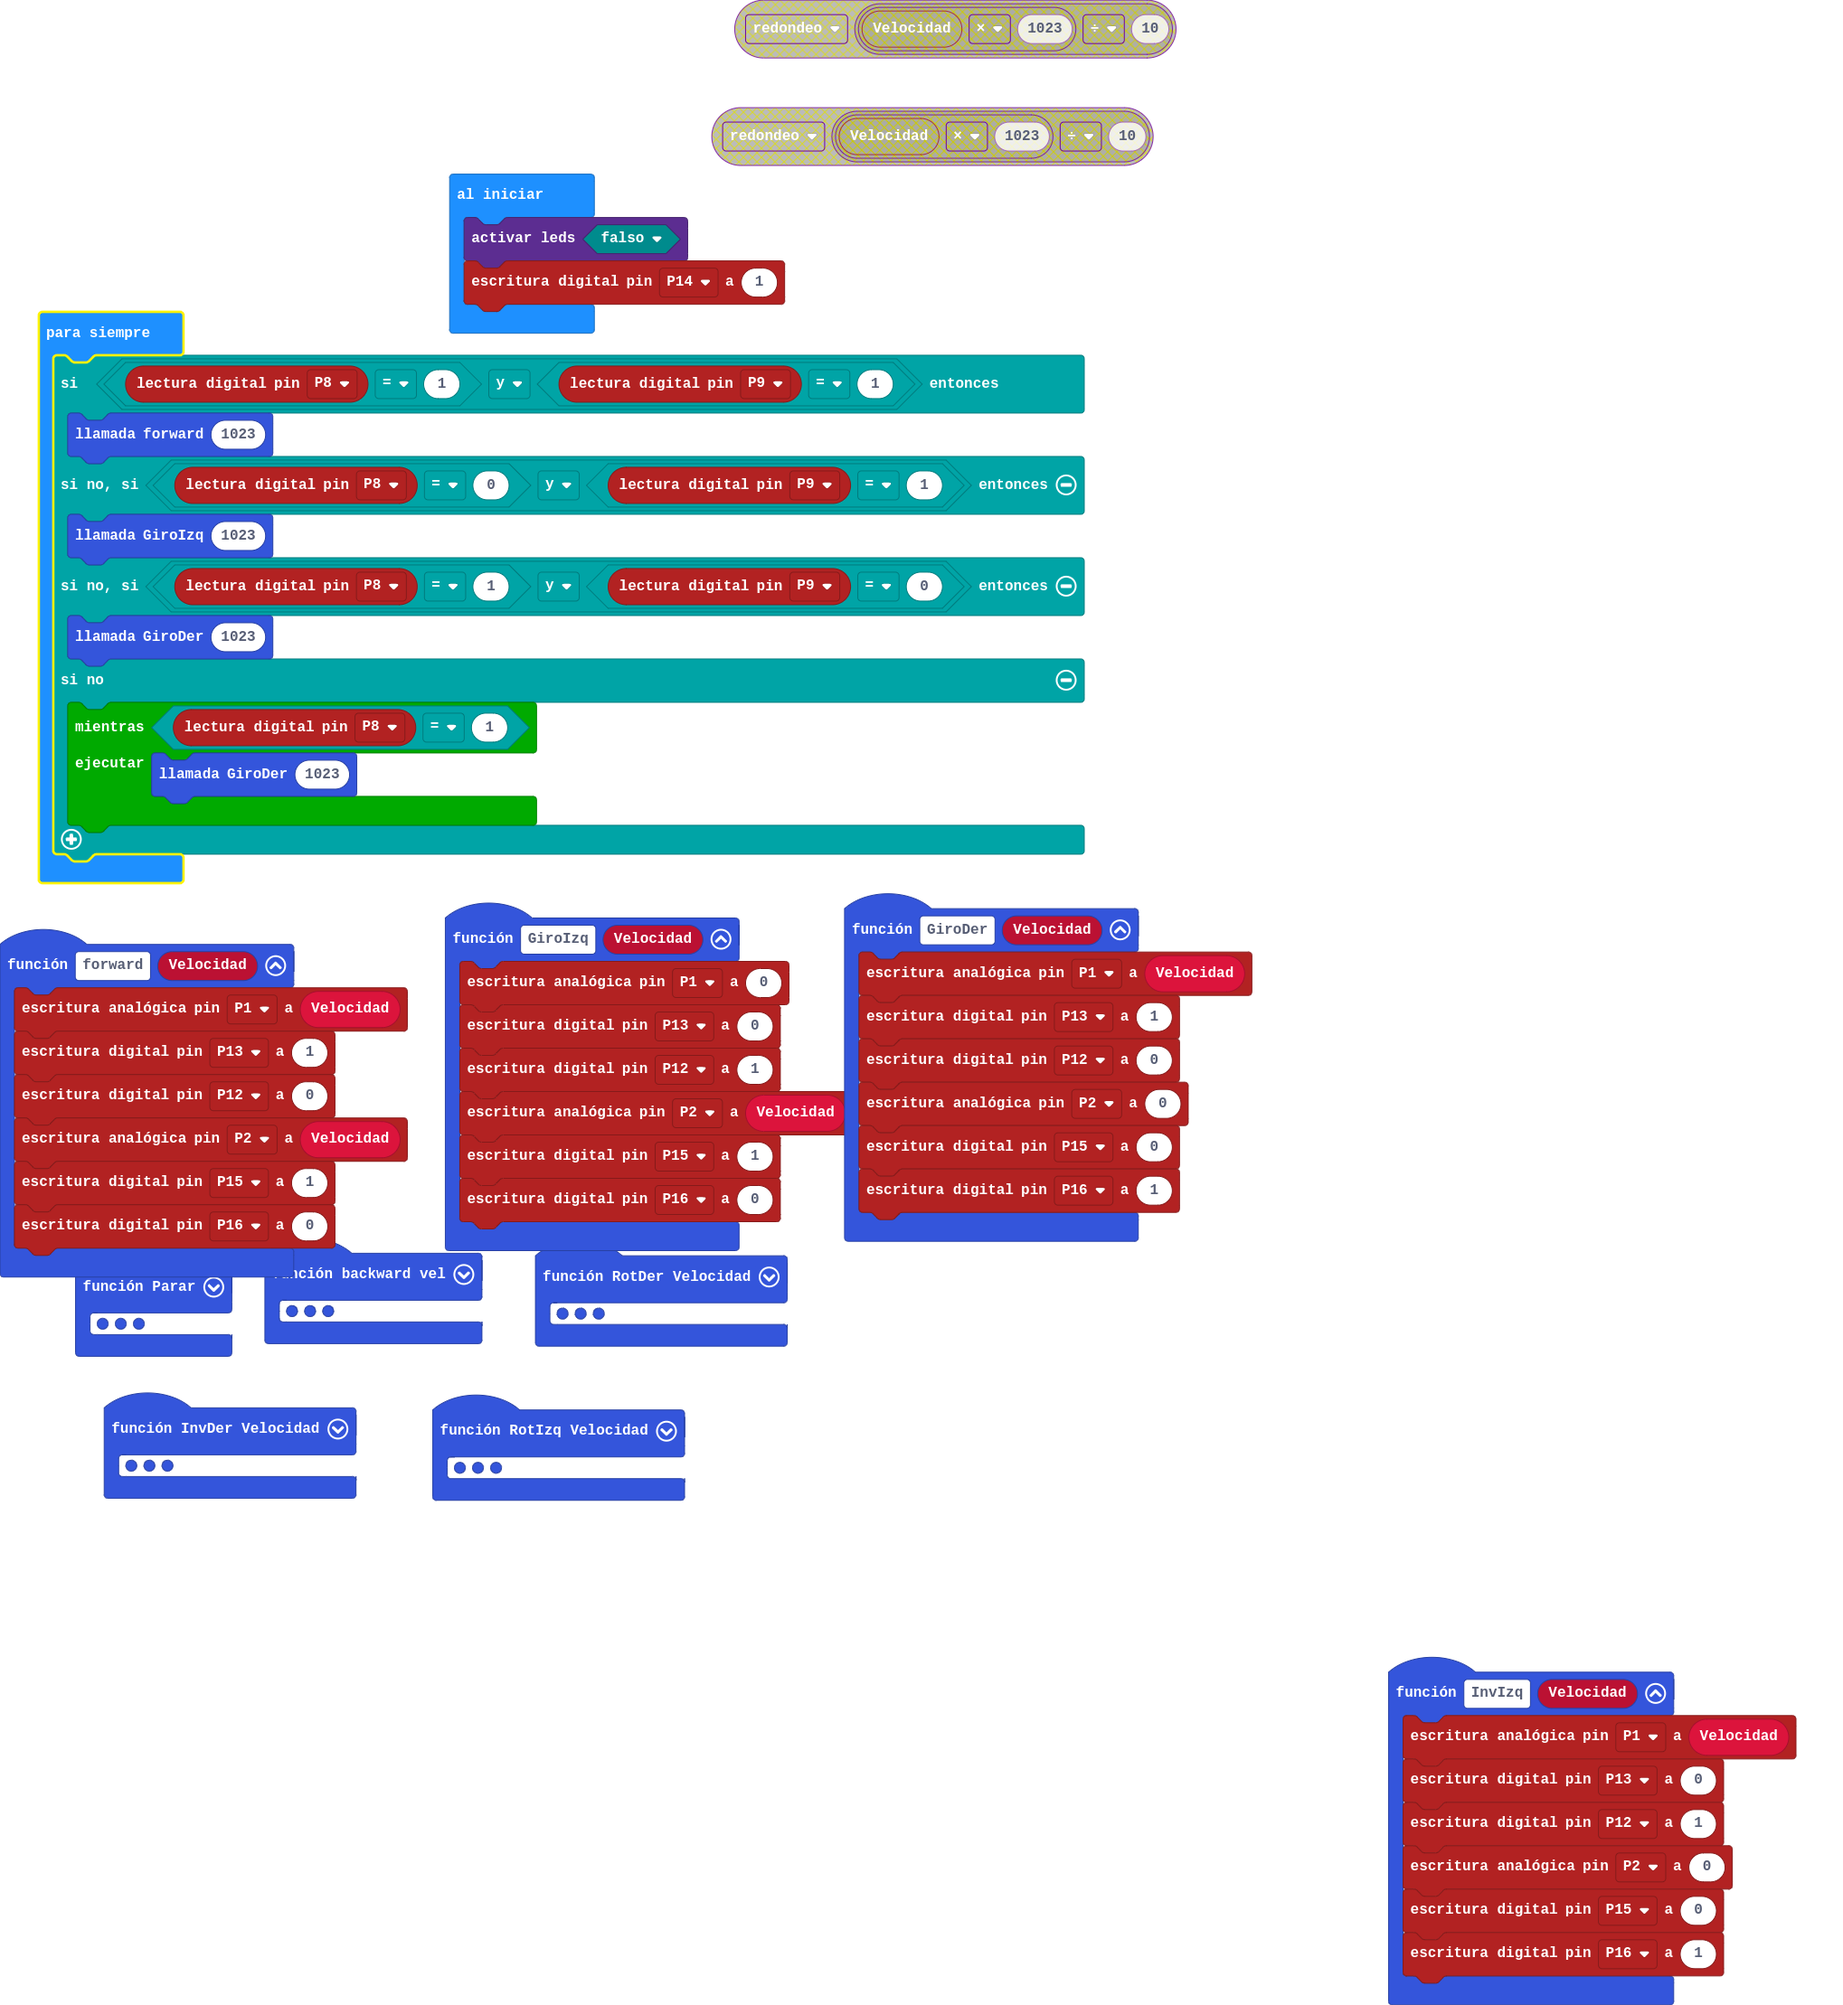
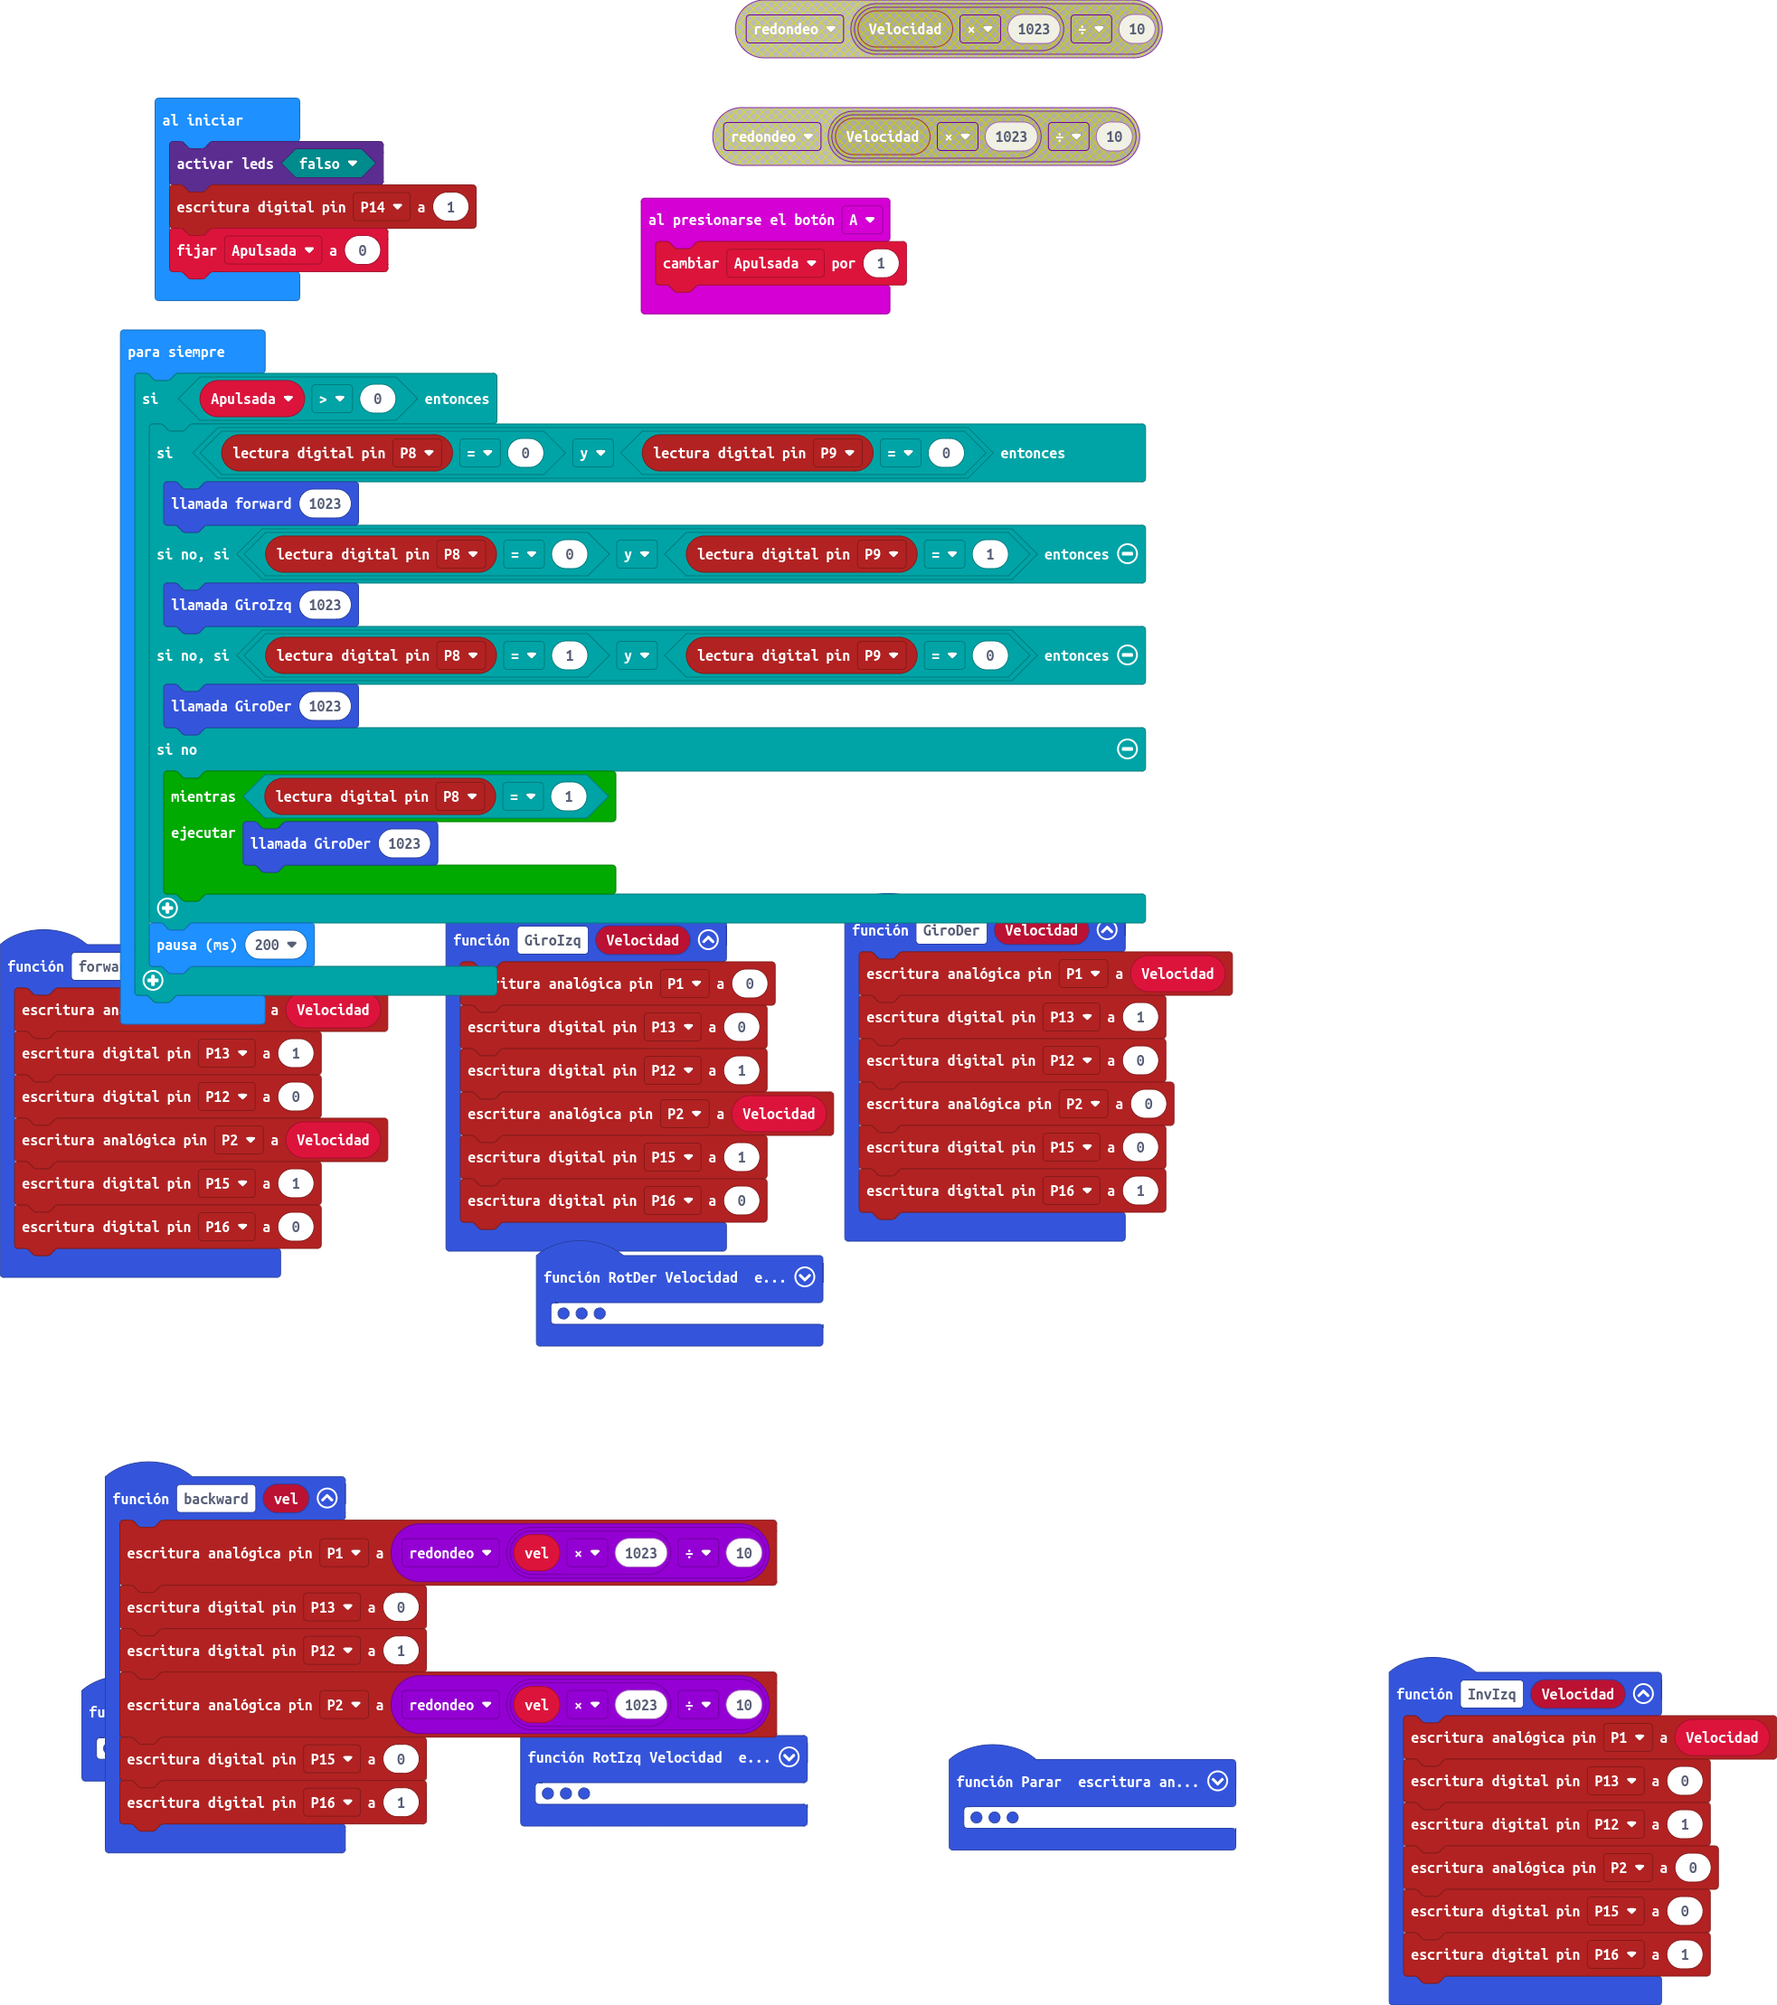
Actualizar pxt.json, main.blocks, main.ts

Changed region(s): [[0.0, 0.0, 0.714, 0.9333], [0.745, 0.8088, 1.0, 1.0], [0.5277, 0.8711, 0.714, 0.9333]]

diff --git a/main.ts b/main.ts
@@ -30,6 +30,9 @@ function InvDer (Velocidad: number) {
     pins.digitalWritePin(DigitalPin.P15, 0)
     pins.digitalWritePin(DigitalPin.P16, 1)
 }
+input.onButtonPressed(Button.A, function () {
+    Apulsada += 1
+})
 function GiroIzq (Velocidad: number) {
     pins.analogWritePin(AnalogPin.P1, 0)
     pins.digitalWritePin(DigitalPin.P13, 0)
@@ -72,16 +75,20 @@ function forward (Velocidad: number) {
 }
 led.enable(false)
 pins.digitalWritePin(DigitalPin.P14, 1)
+let Apulsada = 0
 basic.forever(function () {
-    if (pins.digitalReadPin(DigitalPin.P8) == 1 && pins.digitalReadPin(DigitalPin.P9) == 1) {
-        forward(1023)
-    } else if (pins.digitalReadPin(DigitalPin.P8) == 0 && pins.digitalReadPin(DigitalPin.P9) == 1) {
-        GiroIzq(1023)
-    } else if (pins.digitalReadPin(DigitalPin.P8) == 1 && pins.digitalReadPin(DigitalPin.P9) == 0) {
-        GiroDer(1023)
-    } else {
-        while (pins.digitalReadPin(DigitalPin.P8) == 1) {
+    if (Apulsada > 0) {
+        if (pins.digitalReadPin(DigitalPin.P8) == 0 && pins.digitalReadPin(DigitalPin.P9) == 0) {
+            forward(1023)
+        } else if (pins.digitalReadPin(DigitalPin.P8) == 0 && pins.digitalReadPin(DigitalPin.P9) == 1) {
+            GiroIzq(1023)
+        } else if (pins.digitalReadPin(DigitalPin.P8) == 1 && pins.digitalReadPin(DigitalPin.P9) == 0) {
             GiroDer(1023)
+        } else {
+            while (pins.digitalReadPin(DigitalPin.P8) == 1) {
+                GiroDer(1023)
+            }
         }
+        basic.pause(200)
     }
 })
